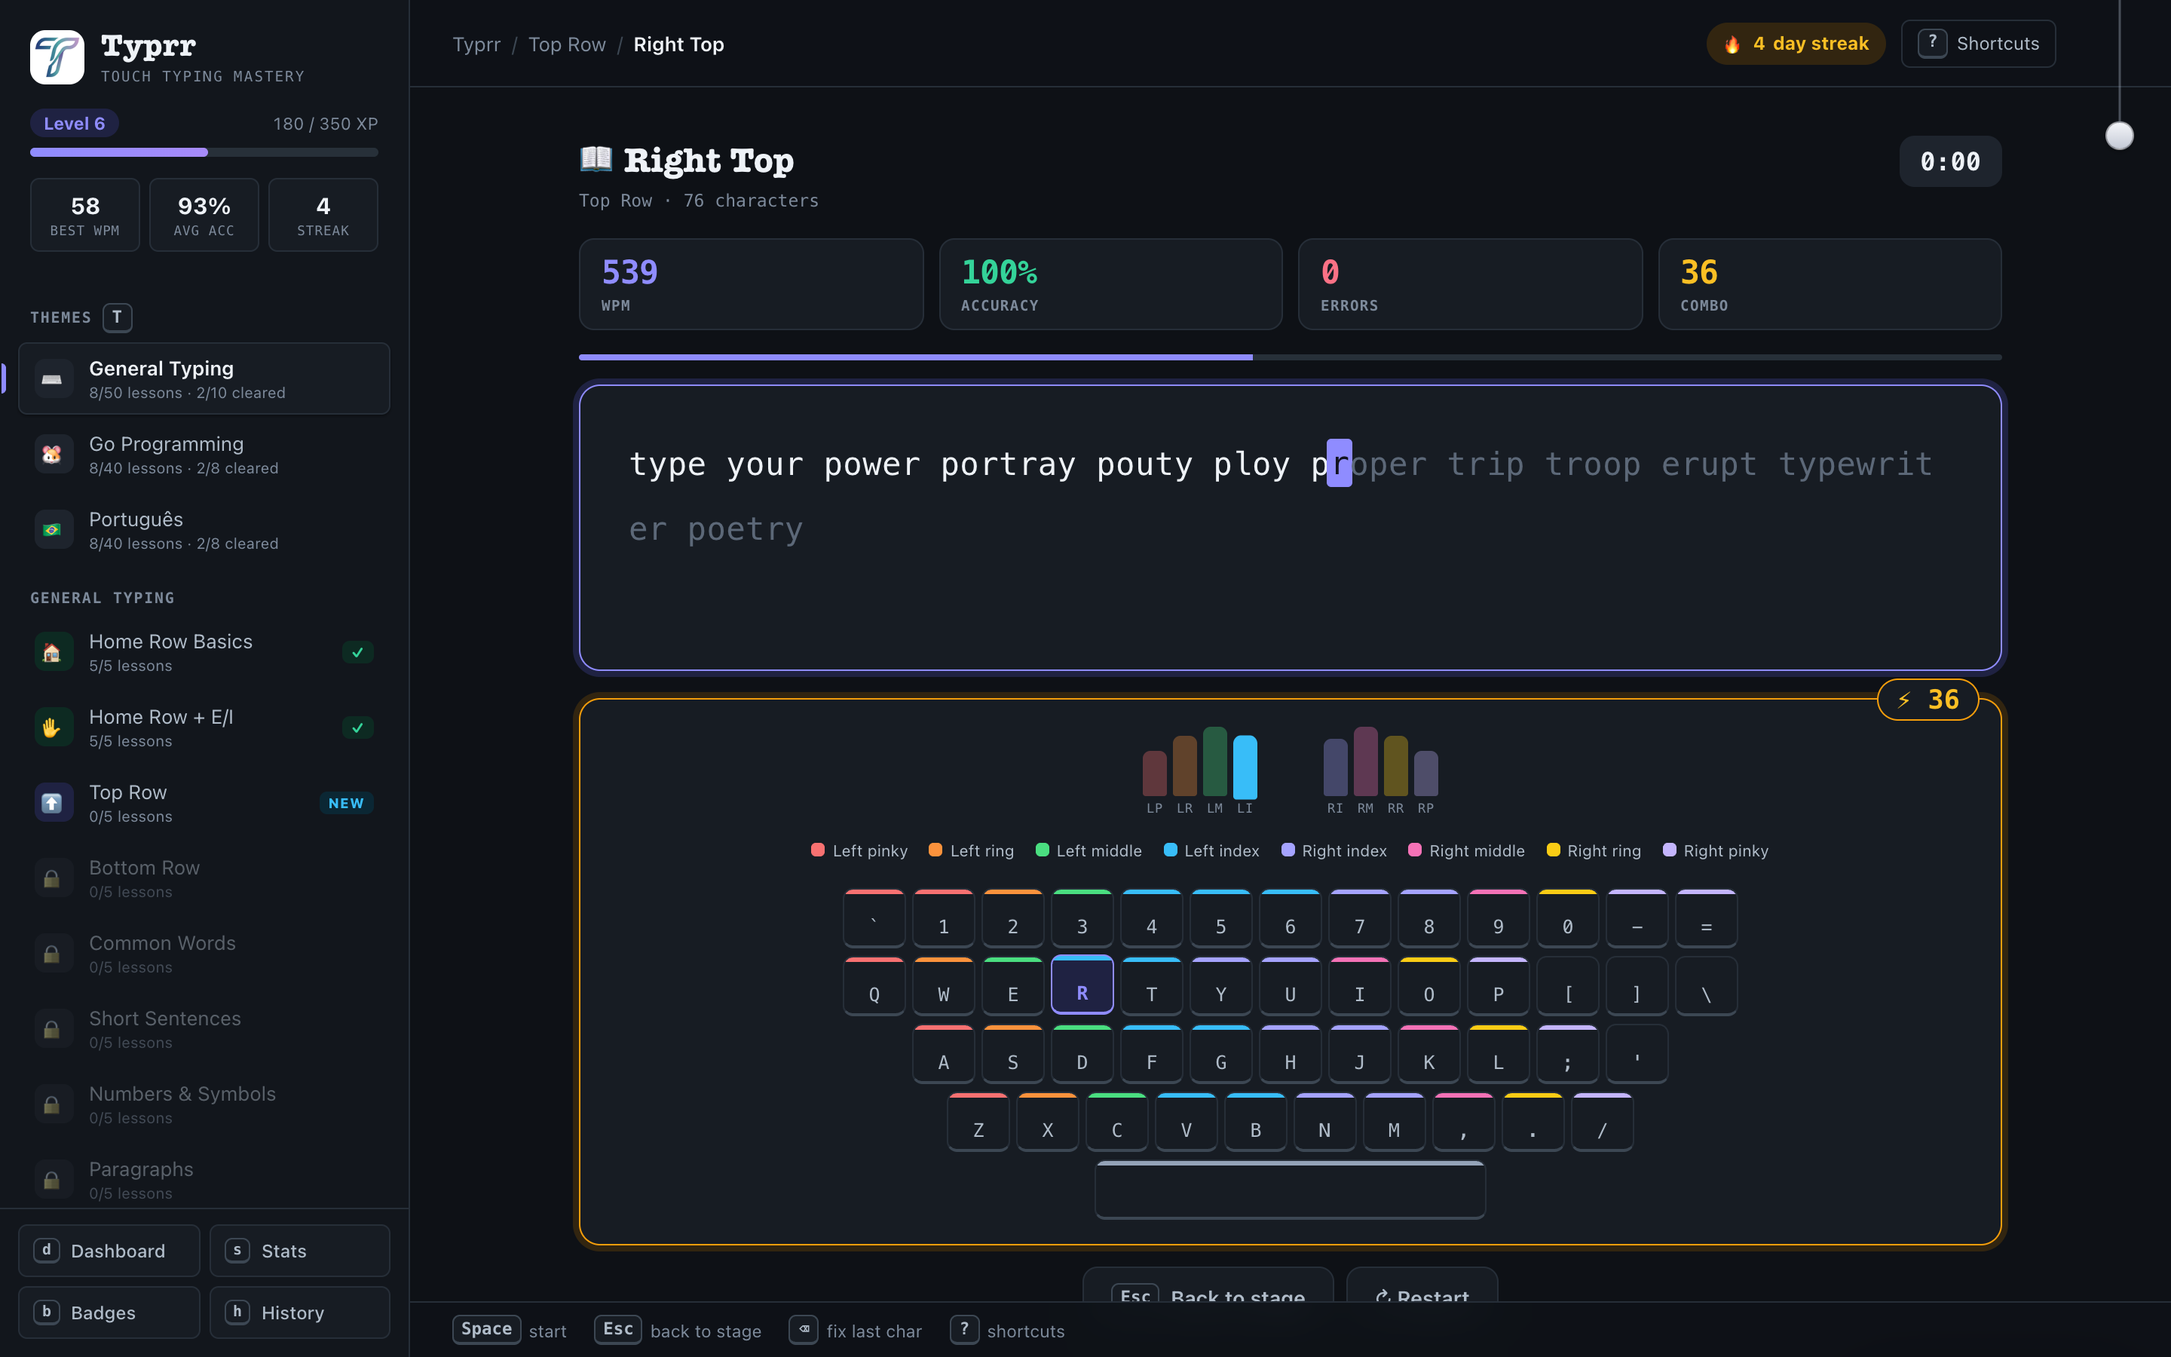
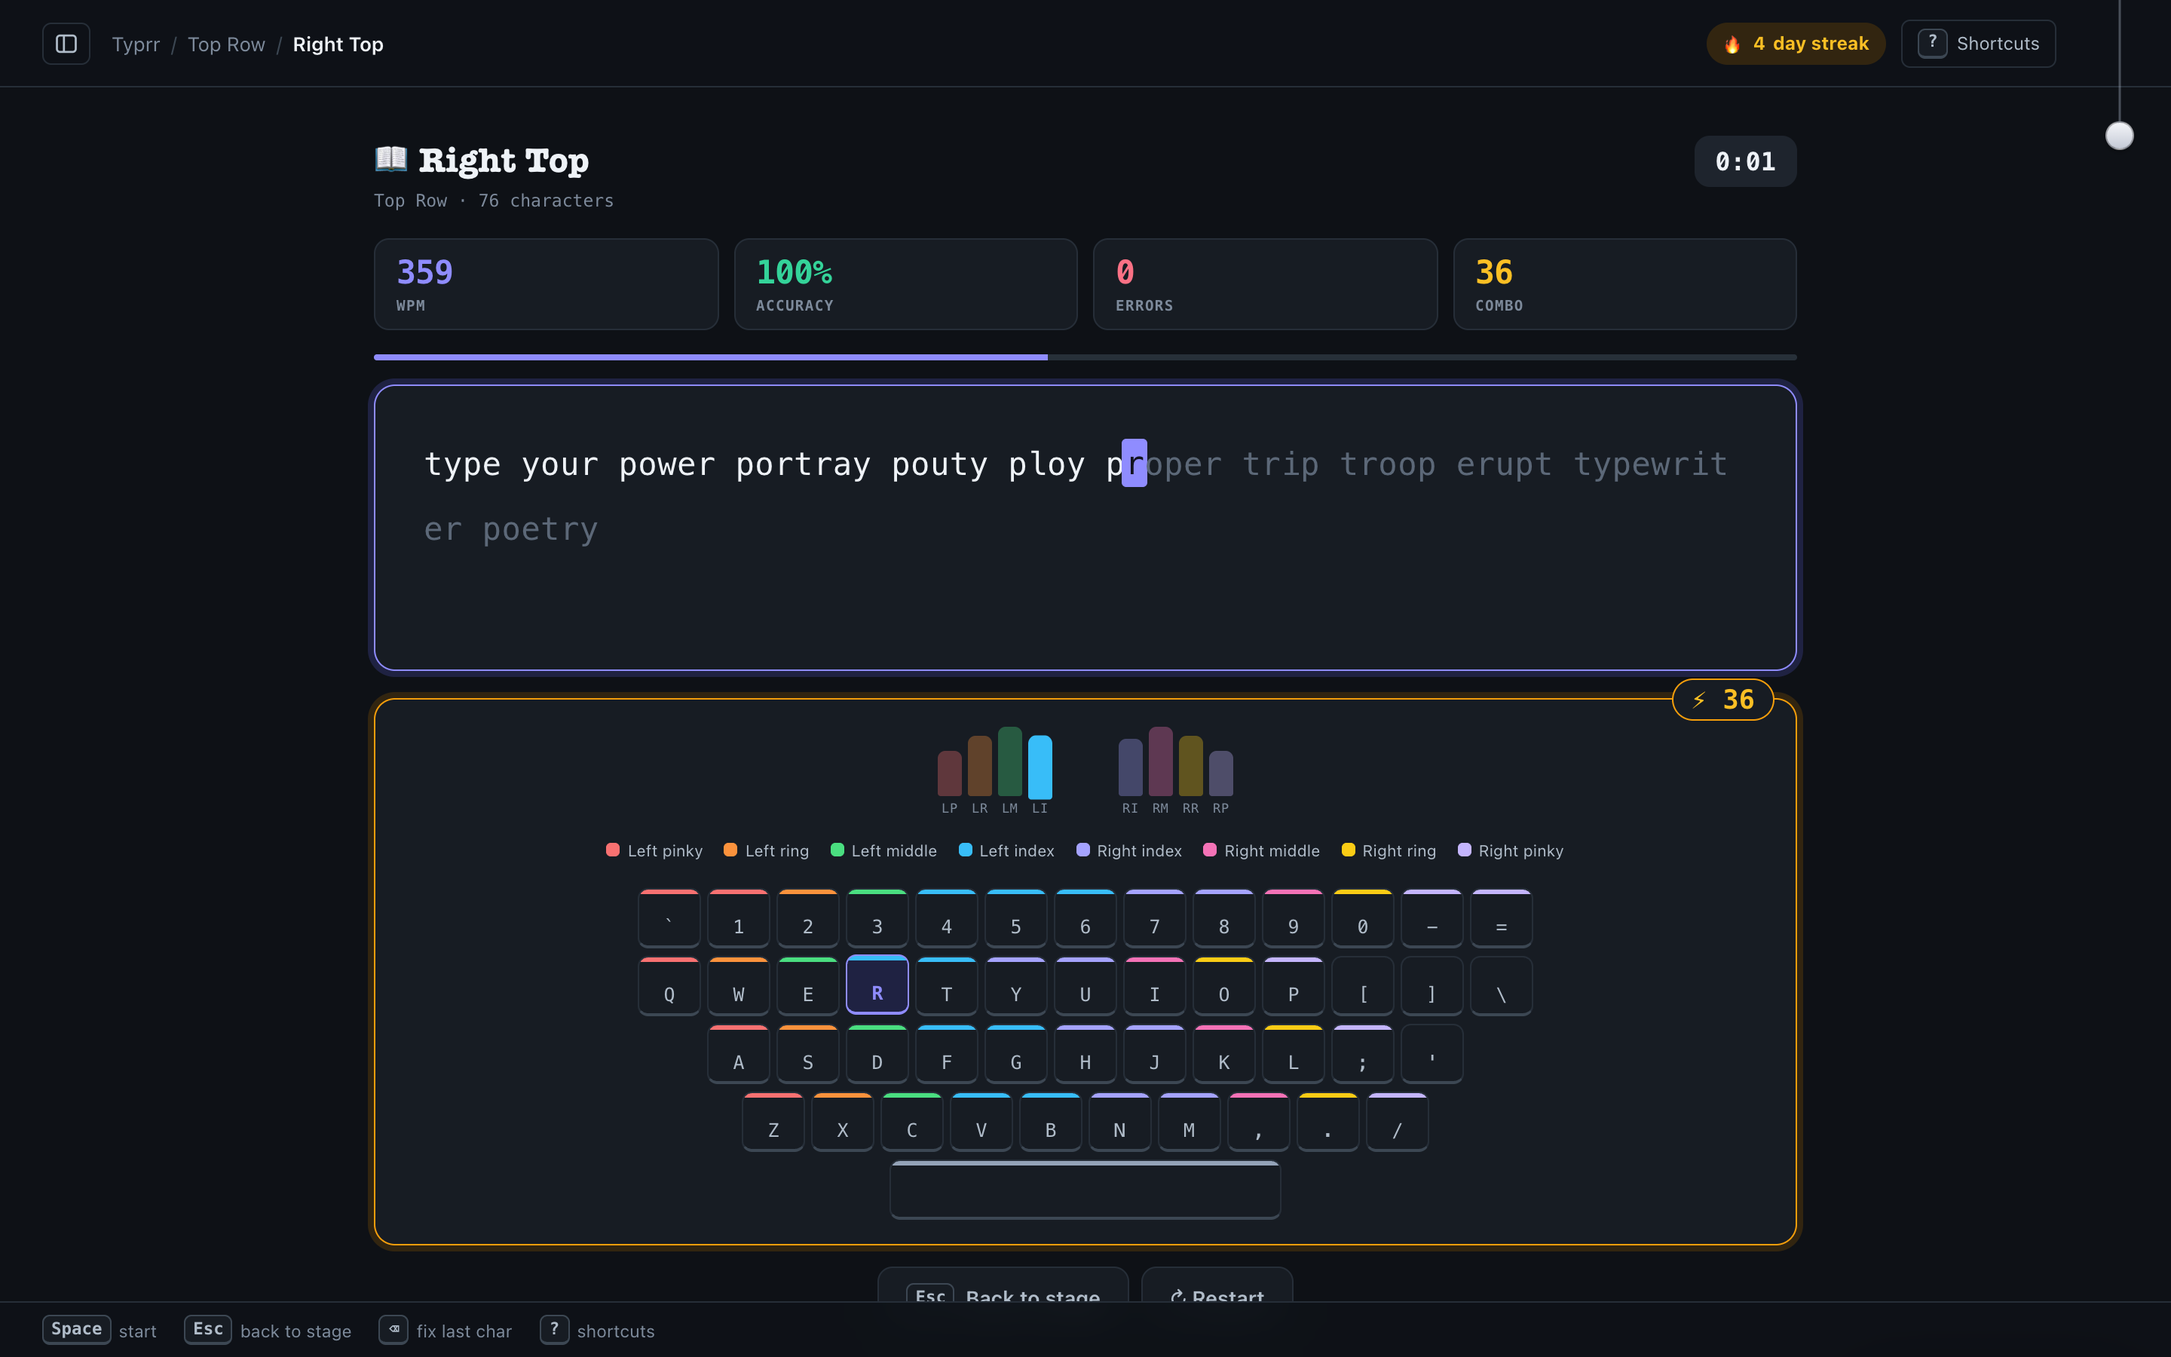
feat: collapsible sidebar with automatic focus mode
One control in the header, two mechanics chosen by viewport: desktop
collapses the rail, phones slide the same panel as a drawer. Bound to c,
which works everywhere except mid-practice.

- Auto-collapses when a session actually starts, not when the typing
  view opens: until you press Space you may still want to navigate. The
  reflow lands behind the countdown overlay, so it is never seen.
- The auto-collapse is transient. Leaving the typing view restores only
  what the app itself collapsed, tracked by App.autoCollapsed; an
  explicit collapse is persisted and survives the session untouched.
- c is accepted in the typing view only while the focus prompt is still
  up. Once the countdown runs, every key belongs to the lesson — pressing
  c then types a c, as it should.
- The collapsed state is re-applied by the pre-paint head script next to
  the theme, so a collapsed sidebar never flashes open on load.

Two things this shook out:

- The collapse rule must stay inside @media (min-width: 769px).
  Unscoped, html.sidebar-collapsed .sidebar (0,2,1) outranks
  .sidebar.open (0,2,0) and the phone drawer can never open.
- The open drawer covers the toggle that opens it, so on phones there
  was no way back — true of the old hamburger too. Added a scrim: tap
  anywhere to dismiss, and Escape now closes the drawer before it
  navigates back.

Bumps the service worker cache so returning users get this build.

diff --git a/index.html b/index.html
@@ -409,6 +409,7 @@ kbd {
 .main {
   flex: 1;
   margin-left: var(--sidebar-w);
+  transition: margin-left 0.25s ease;
   display: flex;
   flex-direction: column;
   min-height: 100vh;
@@ -521,16 +522,48 @@ kbd {
   transition: opacity 0.15s;
 }
 .pullcord.hint .pullcord-tip { opacity: 1; }
-.hamburger {
-  display: none;
+.sidebar-toggle {
+  display: flex;
+  align-items: center;
+  justify-content: center;
   background: none;
   border: 1px solid var(--border);
   border-radius: var(--radius-xs);
-  color: var(--text);
-  font-size: 1rem;
+  color: var(--text-dim);
   cursor: pointer;
-  padding: 5px 9px;
-  font-family: inherit;
+  padding: 5px 7px;
+  flex-shrink: 0;
+  transition: color 0.12s, border-color 0.12s;
+}
+.sidebar-toggle:hover { border-color: var(--border-strong); color: var(--text); }
+.sidebar-toggle svg { width: 16px; height: 16px; fill: none; stroke: currentColor; stroke-width: 1.7; stroke-linejoin: round; }
+/* The panel divider slides to the edge when the sidebar is away. */
+.sidebar-toggle .panel-fill { fill: currentColor; opacity: 0.28; transition: opacity 0.15s; }
+html.sidebar-collapsed .sidebar-toggle .panel-fill { opacity: 0; }
+
+/* The open drawer covers the toggle, so it needs a way out: tap anywhere. */
+.sidebar-scrim { display: none; }
+@media (max-width: 768px) {
+  .sidebar-scrim {
+    display: block;
+    position: fixed;
+    inset: 0;
+    z-index: 99;
+    background: var(--scrim);
+    opacity: 0;
+    pointer-events: none;
+    transition: opacity 0.25s ease;
+    border: none;
+    padding: 0;
+  }
+  .sidebar.open + .sidebar-scrim { opacity: 1; pointer-events: auto; }
+}
+
+/* Collapsed sidebar. Scoped to desktop so it never fights the mobile drawer,
+   where .sidebar.open would otherwise lose on specificity. */
+@media (min-width: 769px) {
+  html.sidebar-collapsed .sidebar { transform: translateX(-100%); }
+  html.sidebar-collapsed .main { margin-left: 0; }
 }
 
 /* Content */
@@ -1184,7 +1217,7 @@ kbd {
   .sidebar { transform: translateX(-100%); box-shadow: var(--shadow-lg); }
   .sidebar.open { transform: translateX(0); }
   .main { margin-left: 0; }
-  .hamburger { display: block; }
+
   .content { padding: 22px 16px 18px; }
   .main-header { padding: 0 var(--cord-w) 0 12px; }
   .hintbar, #helpBtn { display: none; }
@@ -1205,12 +1238,14 @@ kbd {
 // Resolve the theme before first paint so there is no flash of the wrong palette.
 // Runs ahead of the app, so it reads the persisted blob directly.
 (function () {
-  var t;
-  try { t = JSON.parse(localStorage.getItem("typrr_data") || "{}").theme; } catch (e) {}
+  var saved = {};
+  try { saved = JSON.parse(localStorage.getItem("typrr_data") || "{}"); } catch (e) {}
+  var t = saved.theme;
   if (t !== "light" && t !== "dark") {
     t = window.matchMedia("(prefers-color-scheme: dark)").matches ? "dark" : "light";
   }
   document.documentElement.dataset.theme = t;
+  if (saved.sidebarCollapsed) document.documentElement.classList.add("sidebar-collapsed");
 
   // Same reason the favicon is inlined: a lone index.html should open clean.
   if (location.protocol.startsWith("http")) {
@@ -1266,10 +1301,17 @@ kbd {
 
     <div class="sidebar-footer" id="viewNav" role="group" aria-label="Views"></div>
   </aside>
+  <button class="sidebar-scrim" id="sidebarScrim" type="button" tabindex="-1" aria-label="Close navigation"></button>
 
   <div class="main">
     <header class="main-header">
-      <button class="hamburger" id="hamburger" aria-label="Toggle navigation" aria-expanded="false" aria-controls="sidebar">☰</button>
+      <button class="sidebar-toggle" id="sidebarToggle" type="button" aria-expanded="true" aria-controls="sidebar" aria-label="Hide sidebar" title="Toggle sidebar (c)">
+        <svg viewBox="0 0 20 20" aria-hidden="true">
+          <rect x="2.2" y="3.2" width="15.6" height="13.6" rx="2.6"/>
+          <path d="M8 3.2V16.8"/>
+          <rect class="panel-fill" x="2.2" y="3.2" width="5.8" height="13.6" rx="2.6" stroke="none"/>
+        </svg>
+      </button>
       <nav class="breadcrumb" id="breadcrumb" aria-label="Breadcrumb"></nav>
       <div class="header-right">
         <div class="streak-chip" id="streakBadge" hidden>🔥 <span id="streakCount">0</span><span>day streak</span></div>
@@ -1691,6 +1733,7 @@ const Store = {
       practicedLate: false,
       practicedEarly: false,
       theme: null,      // null = follow the OS; "light" | "dark" = explicit choice
+      sidebarCollapsed: false,
     };
   },
 
@@ -2182,7 +2225,13 @@ const App = {
       .map(([k, t]) => `<span><kbd>${esc(k)}</kbd> ${esc(t)}</span>`).join('');
 
     document.getElementById("sidebar").classList.remove("open");
-    document.getElementById("hamburger").setAttribute("aria-expanded", "false");
+    // Restore only what the app collapsed for a session; an explicit
+    // preference survives leaving the typing view.
+    if (viewId !== "typing" && this.autoCollapsed) {
+      this.autoCollapsed = false;
+      this.setSidebar(false);
+    }
+    this.syncSidebarToggle();
     this.indexNavItems();
   },
 
@@ -2259,6 +2308,40 @@ const App = {
   cycleTheme(step) {
     const i = THEME_ORDER.indexOf(this.currentTheme);
     this.switchTheme(THEME_ORDER[(i + step + THEME_ORDER.length) % THEME_ORDER.length]);
+  },
+
+  // ── Sidebar ──
+  // Desktop collapses the rail; phones slide the same panel as a drawer.
+  // One control, one mental model, two mechanics.
+  isMobile() { return window.matchMedia("(max-width: 768px)").matches; },
+
+  sidebarHidden() {
+    return this.isMobile()
+      ? !document.getElementById("sidebar").classList.contains("open")
+      : document.documentElement.classList.contains("sidebar-collapsed");
+  },
+
+  setSidebar(hidden, persist) {
+    if (this.isMobile()) {
+      document.getElementById("sidebar").classList.toggle("open", !hidden);
+    } else {
+      document.documentElement.classList.toggle("sidebar-collapsed", hidden);
+      if (persist) { Store.get().sidebarCollapsed = hidden; Store.save(); }
+    }
+    this.syncSidebarToggle();
+  },
+
+  toggleSidebar() {
+    const hidden = !this.sidebarHidden();
+    this.autoCollapsed = false;   // an explicit choice outranks the session
+    this.setSidebar(hidden, true);
+  },
+
+  syncSidebarToggle() {
+    const shown = !this.sidebarHidden();
+    const btn = document.getElementById("sidebarToggle");
+    btn.setAttribute("aria-expanded", String(shown));
+    btn.setAttribute("aria-label", shown ? "Hide sidebar" : "Show sidebar");
   },
 
   // ── Dark mode ──
@@ -2771,6 +2854,7 @@ const App = {
     const prompt = document.getElementById("focusPrompt");
     if (!prompt) return;
     prompt.remove();
+    if (!this.sidebarHidden()) { this.autoCollapsed = true; this.setSidebar(true); }
     document.getElementById("typingArea").classList.add("active");
     document.getElementById("hiddenInput").focus();
     this.showCountdown(() => {
@@ -2815,10 +2899,8 @@ const App = {
     document.getElementById("viewNav").addEventListener("click", run);
     document.getElementById("breadcrumb").addEventListener("click", run);
     document.getElementById("helpBtn").addEventListener("click", () => this.toggleHelp(true));
-    document.getElementById("hamburger").addEventListener("click", (e) => {
-      const open = document.getElementById("sidebar").classList.toggle("open");
-      e.currentTarget.setAttribute("aria-expanded", String(open));
-    });
+    document.getElementById("sidebarToggle").addEventListener("click", () => this.toggleSidebar());
+    document.getElementById("sidebarScrim").addEventListener("click", () => this.setSidebar(true));
   },
 
   dispatch(act, arg, arg2) {
@@ -2863,7 +2945,11 @@ const App = {
 
       if (this.view === "typing") {
         if (e.key === "Escape") { e.preventDefault(); this.back(); return; }
-        if (!this.typingActive && !this.startTime && (e.key === " " || e.key === "Enter")) {
+        // Only while the focus prompt is still up: once the countdown runs the
+        // user is practising and every key belongs to the lesson.
+        const notStarted = document.getElementById("focusPrompt") !== null;
+        if (notStarted && e.key === "c") { e.preventDefault(); this.toggleSidebar(); return; }
+        if (notStarted && (e.key === " " || e.key === "Enter")) {
           e.preventDefault();
           this.startFocus();
         }
@@ -2873,9 +2959,17 @@ const App = {
       const tag = document.activeElement && document.activeElement.tagName;
       if (tag === "INPUT" || tag === "TEXTAREA") return;
 
+      // An open drawer is the innermost layer: Escape dismisses it, not the view.
+      if (e.key === "Escape" && this.isMobile() && !this.sidebarHidden()) {
+        e.preventDefault();
+        this.setSidebar(true);
+        return;
+      }
+
       switch (e.key) {
         case "?": e.preventDefault(); this.toggleHelp(true); return;
         case "m": e.preventDefault(); PullCord.yank(); return;
+        case "c": e.preventDefault(); this.toggleSidebar(); return;
         case "Escape": e.preventDefault(); this.back(); return;
         case "n": e.preventDefault(); this.startNext(); return;
         case "t": e.preventDefault(); this.cycleTheme(e.shiftKey ? -1 : 1); return;
@@ -2943,7 +3037,8 @@ const App = {
           ['Navigate', [
             [['d'], 'Dashboard'], [['s'], 'Stats'], [['b'], 'Badges'], [['h'], 'History'],
             [['t'], 'Next theme'], [['Shift', 't'], 'Previous theme'],
-            [['m'], 'Pull the cord (dark mode)'], [['Esc'], 'Go back'],
+            [['m'], 'Pull the cord (dark mode)'], [['c'], 'Collapse the sidebar'],
+            [['Esc'], 'Go back'],
           ]],
           ['Act', [
             [['n'], 'Start next recommended lesson'],
@@ -2954,6 +3049,7 @@ const App = {
           ]],
           ['While typing', [
             [['Space'], 'Start the session'],
+            [['c'], 'Collapse the sidebar — before the session starts'],
             [['⌫'], 'Fix the previous character'],
             [['Esc'], 'Leave and return to the stage'],
           ]],

diff --git a/sw.js b/sw.js
@@ -1,7 +1,7 @@
 // Typrr service worker.
 // Exists so the app is installable and works offline. Bump CACHE on release —
 // the old cache is dropped on activate.
-const CACHE = "typrr-v0.5.0";
+const CACHE = "typrr-v0.6.0";
 
 const SHELL = [
   "./",

diff --git a/AGENTS.md b/AGENTS.md
@@ -37,6 +37,7 @@ Makefile              ← `make serve` to run local HTTP server
 |`errorKeys`|`{key: count}`|Drives the "keys you miss most" panel|
 |`badges`|`string[]`|Earned badge IDs|
 |`theme`|`"light"｜"dark"｜null`|Explicit colour-scheme choice; `null` follows the OS|
+|`sidebarCollapsed`|boolean|Explicit collapse preference; session auto-collapse is transient and never written|
 
 ## Theme System
 
@@ -56,6 +57,7 @@ THEME_ORDER = ["general", "go", "pt"]
 
 - **CSS variables for all colors.** Reference `design.md` tokens. Never hardcode a colour outside the `:root` / `html[data-theme="dark"]` blocks — a literal in a component rule silently breaks dark mode. Translucent and on-accent surfaces have their own tokens (`--veil`, `--scrim`, `--on-accent`, `--heat-*`) precisely so they can invert.
 - **Dark mode is a token swap.** Add the light value to `:root` and the dark value to `html[data-theme="dark"]`; never write a second component rule for dark. The inline `<head>` script resolves the theme before first paint — keep it dependency-free and in sync with `App.resolvedTheme()`.
+- **Sidebar collapse is desktop-scoped.** Keep `html.sidebar-collapsed` rules inside `@media (min-width: 769px)`; unscoped they outrank `.sidebar.open` on specificity and the phone drawer stops opening. `App.autoCollapsed` marks a collapse the app performed for a session — only that one is undone on leaving, so an explicit preference is never clobbered.
 - **The pull cord owns `--cord-w`.** That token is both the header's right padding and the cord container's width, and it must stay equal to the SVG `viewBox` width (76) — the knob is an HTML button positioned in viewBox units, so scaling the SVG desyncs it from the rope.
 - **Three typographic voices.** `--font-display` (slab serif) for titles, `--mono` uppercase for labels, `--font-sans` for body. Do not introduce a fourth.
 - **White-first.** Surfaces are `--surface` on `--bg`; separation comes from `--border`, not fills. Saturated accents encode meaning only.

diff --git a/design.md b/design.md
@@ -101,6 +101,17 @@ Resolution order, applied by an inline script in `<head>` before first paint so 
 
 The toggle only ever writes an explicit value, so a user who never touches it keeps following their OS.
 
+## Sidebar
+
+One control, two mechanics, chosen by viewport:
+
+- **Desktop** (`min-width: 769px`) collapses the rail: `html.sidebar-collapsed` slides it out and drops the main margin to zero. The collapse rule is scoped to desktop on purpose — unscoped, `html.sidebar-collapsed .sidebar` (0,2,1) would outrank `.sidebar.open` (0,2,0) and the phone drawer could never open.
+- **Phones** slide the same panel as a drawer over a scrim. The open drawer covers the toggle, so the scrim is the way out: tap anywhere, or press `Esc`, which dismisses the drawer before it navigates back.
+
+The collapsed state is persisted and re-applied by the pre-paint head script, alongside the theme, so a collapsed sidebar never flashes open on load.
+
+**Auto-collapse is transient.** A session start collapses the rail and flags it; leaving the typing view restores only what the app itself collapsed. An explicit collapse is persisted and survives the session untouched. The reflow lands behind the countdown overlay, so it is never seen.
+
 ## Brand Mark
 
 The logo is a gradient "T" whose darkest ink is `#081b4e`, so it would vanish on the dark surface. It therefore keeps a **light ground in both themes** — a white rounded tile — rather than being recoloured per theme. The same tile is the favicon, the app icon and the apple-touch icon, so the mark is identical everywhere it appears.

diff --git a/README.md b/README.md
@@ -19,6 +19,7 @@ A standalone typing practice app — **zero dependencies, single HTML file**. Op
 - **Stage tests** — must hit WPM + accuracy targets to unlock the next stage
 - **Stats that mean something** — WPM/accuracy trend charts, 5-session deltas, an 18-week practice heatmap and your most-missed keys
 - **Full keyboard control** — every screen is drivable without a mouse; press `?` for the shortcut sheet
+- **Focus mode** — the sidebar collapses on its own when a session starts, and comes back when you leave
 - **Light and dark themes** — follows your OS by default; grab the pull cord hanging in the header to switch
 - **Progress persistence** — everything saved in `localStorage`
 - **Installable** — add it to your home screen or dock; it runs standalone and works offline
@@ -65,6 +66,7 @@ Press <kbd>?</kbd> anywhere for the full list.
 | `n` | Start the next recommended lesson |
 | `t` / `Shift`+`t` | Cycle content themes |
 | `m` | Pull the cord (dark mode) |
+| `c` | Collapse / expand the sidebar |
 | `1`–`9` | Open the numbered card |
 | `↑` `↓` `←` `→` | Move between cards (grid-aware) |
 | `Space` | Start the typing session |
